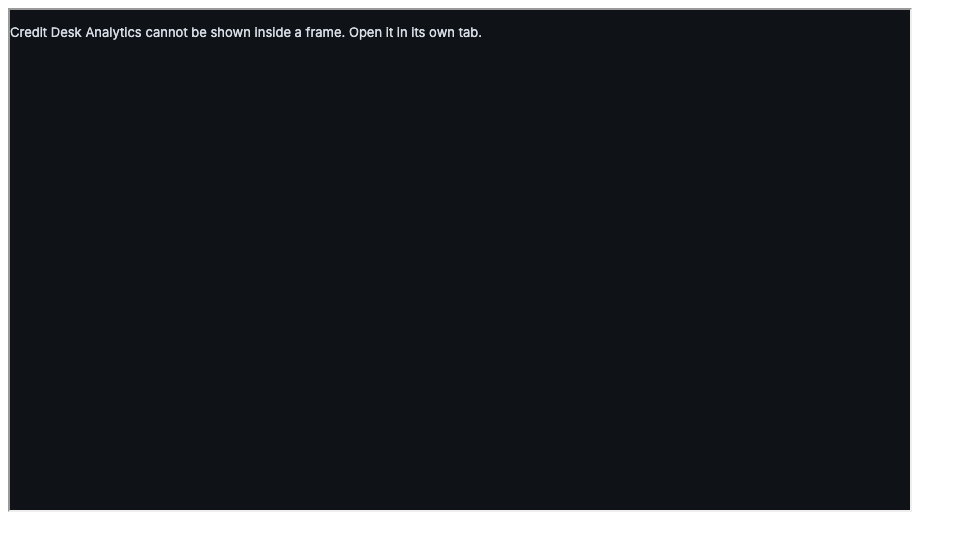
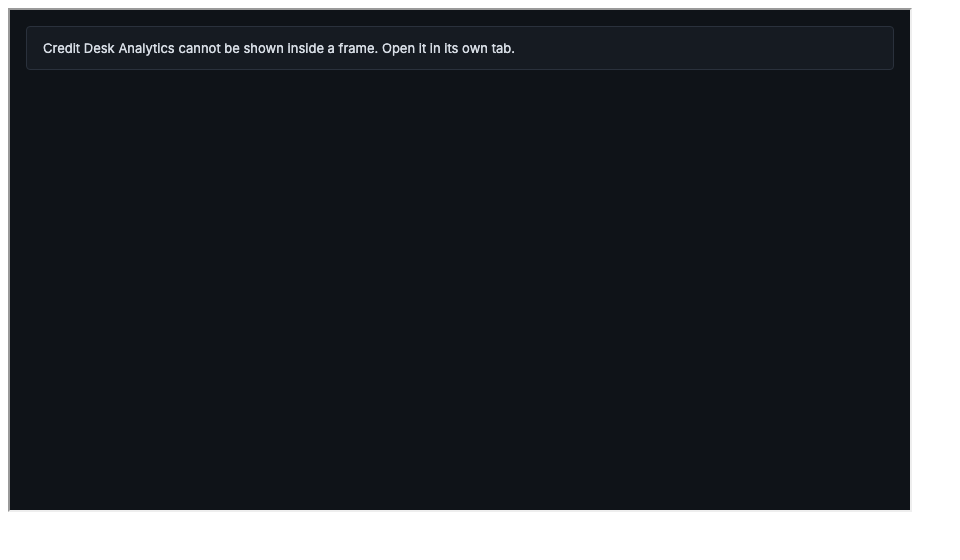
fix(web): framed-page notice gets role=alert and token styling (#66, #472 nit N3) (#495)
* fix(web): announce the framed-page notice as an alert, styled with the design tokens (#66)

The notice a framed Pages copy shows was a bare <p>. It now carries role="alert" so
screen readers announce it, and an inline style (margin, padding, border, radius,
surface-2 background, text colour) built from the existing tokens in styles.scss.
The style is set through CSSOM, so no new CSS file and no CSP change.

Refs #66 (PR #472 nit N3).

* docs(screenshots): re-render the framed Pages notice with its new styling (#66)

---------

Changed region(s): [[0.0, 0.0304, 0.5312, 0.0911]]

diff --git a/web/src/app/core/frame-guard.ts b/web/src/app/core/frame-guard.ts
@@ -12,10 +12,23 @@ export function isFramed(win: Window): boolean {
   }
 }
 
-/** Returns true (and shows a plain notice in place of the app) when the page is framed; the caller then skips bootstrap. */
+/**
+ * Returns true (and shows a notice in place of the app) when the page is framed; the caller then skips bootstrap.
+ * The notice is an alert so screen readers announce it, styled inline with the global tokens (styles.css is loaded
+ * before main.js runs); CSSOM assignments aren't inline-style markup, so they never trip style-src.
+ */
 export function refuseFraming(win: Window, doc: Document): boolean {
   if (!isFramed(win)) return false;
   const notice = doc.createElement('p');
+  notice.setAttribute('role', 'alert');
+  Object.assign(notice.style, {
+    margin: '16px',
+    padding: '12px 16px',
+    border: '1px solid var(--line)',
+    borderRadius: '4px',
+    background: 'var(--surface-2)',
+    color: 'var(--text)',
+  });
   notice.textContent = 'Credit Desk Analytics cannot be shown inside a frame. Open it in its own tab.';
   doc.body.replaceChildren(notice);
   return true;

diff --git a/web/src/app/core/frame-guard.spec.ts b/web/src/app/core/frame-guard.spec.ts
@@ -43,6 +43,20 @@ describe('frame guard (#66)', () => {
     expect(doc.body.firstElementChild?.tagName).toBe('P');
   });
 
+  it('announces the notice as an alert, styled with the design tokens', () => {
+    const doc = document.implementation.createHTMLDocument('t');
+    doc.body.innerHTML = '<app-root></app-root>';
+    refuseFraming({ self: {} as Window, top } as Window, doc);
+    const notice = doc.body.firstElementChild as HTMLElement;
+    expect(notice.getAttribute('role')).toBe('alert');
+    expect(notice.style.margin).toBe('16px');
+    expect(notice.style.padding).toBe('12px 16px');
+    expect(notice.style.border).toBe('1px solid var(--line)');
+    expect(notice.style.borderRadius).toBe('4px');
+    expect(notice.style.background).toBe('var(--surface-2)');
+    expect(notice.style.color).toBe('var(--text)');
+  });
+
   it('starts the app at top level and never when framed', async () => {
     const doc = document.implementation.createHTMLDocument('t');
     doc.body.innerHTML = '<app-root></app-root>';
